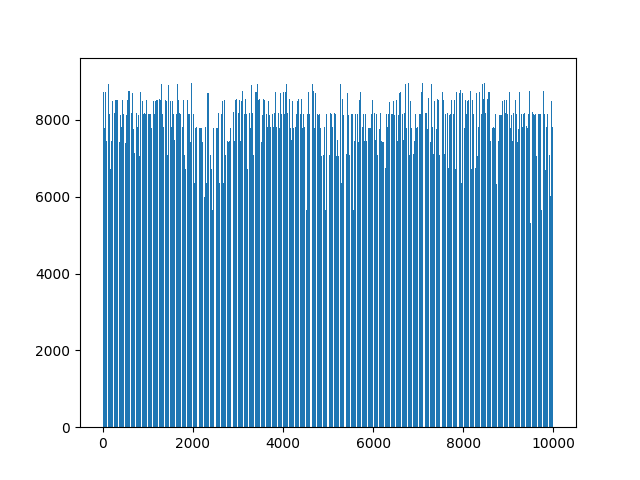
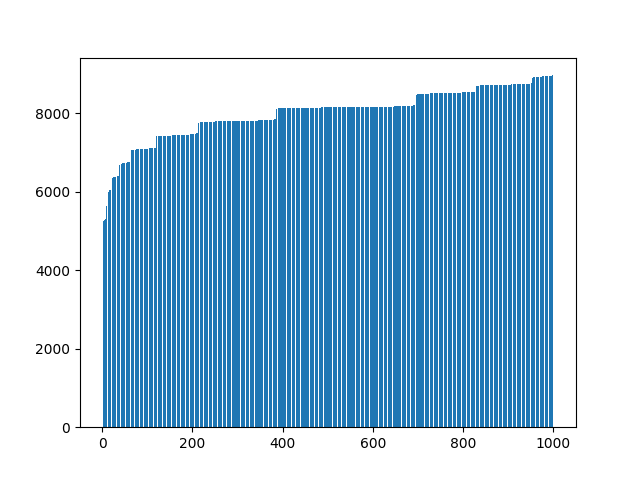
Betere histogram

diff --git a/spoorschavuiten/distribution.py b/spoorschavuiten/distribution.py
@@ -1,6 +1,6 @@
 from code.classes.classes import Region
 from code.algorithms import randomise, randomise2
-from code.visualization.visualize import outputGraph
+from code.visualization.visualize import outputGraph, outputGraphHist
 import time
 
 
@@ -19,15 +19,15 @@ if __name__ == "__main__":
         max_trains = 7
 
         for i in range(max_trains):
-            randomise2.random_route_2(holland)
+            randomise.random_route(holland)
             if holland.is_solution():
                 break
         output = holland.calculate_value()
         all_outputs.append(output)
 
     end = time.time()
-    outputGraph(all_outputs, timeList)
+    # outputGraph(all_outputs, timeList)
+    outputGraphHist(all_outputs, timeList)
 
     
     print(end - start)
-    # outputGraph(times, test)

diff --git a/spoorschavuiten/code/visualization/visualize.py b/spoorschavuiten/code/visualization/visualize.py
@@ -4,10 +4,6 @@ import matplotlib.pyplot as plt
 from code.classes.classes import Region
 from adjustText import adjust_text
 
-def moreMaps():
-    fig, maps = plt.subplots(2)
-    return maps
-
 
 def makeMap(region: Region) -> None:
     '''
@@ -129,7 +125,17 @@ def drawUsedConnections(region: Region, color: list) -> None:
 
 def outputGraph(outputs: list, time: list) -> None:
     y = outputs
+    y.sort()
     x = time
     plt.bar(x, y)
     plt.savefig('aantalPuntenMetRandom.png')
+    plt.show()
+
+
+def outputGraphHist(outputs: list, time: list) -> None:
+    y = outputs
+    y.sort()
+    x = time
+    plt.hist(y, bins=10)
+    # plt.savefig('aantalPuntenMetRandom.png')
     plt.show()
